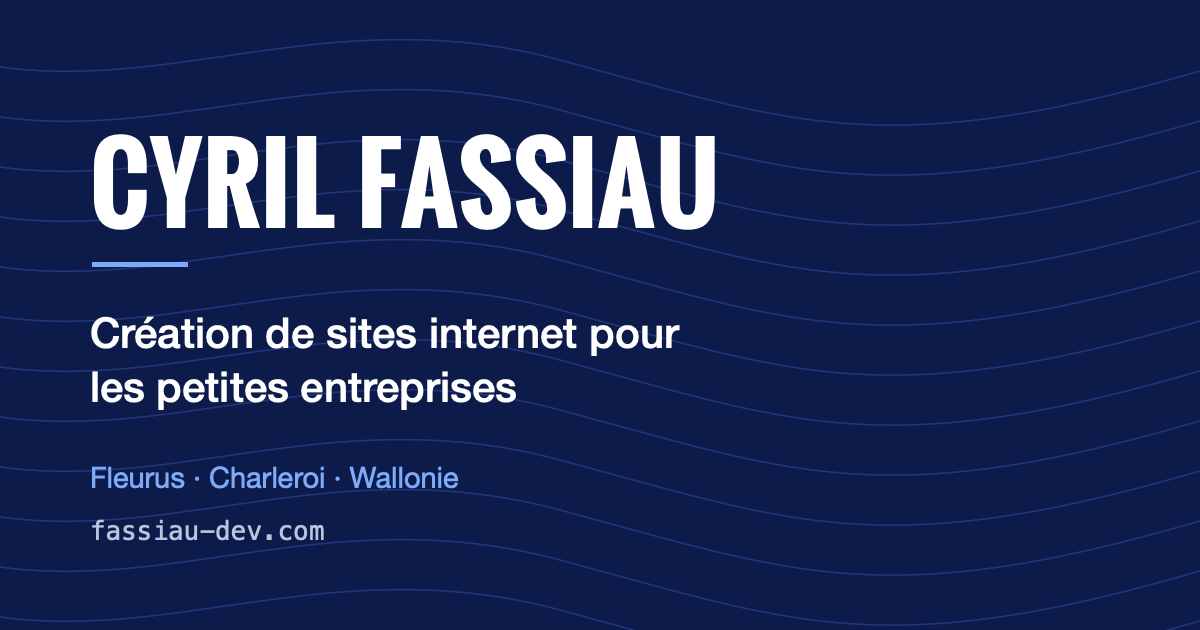
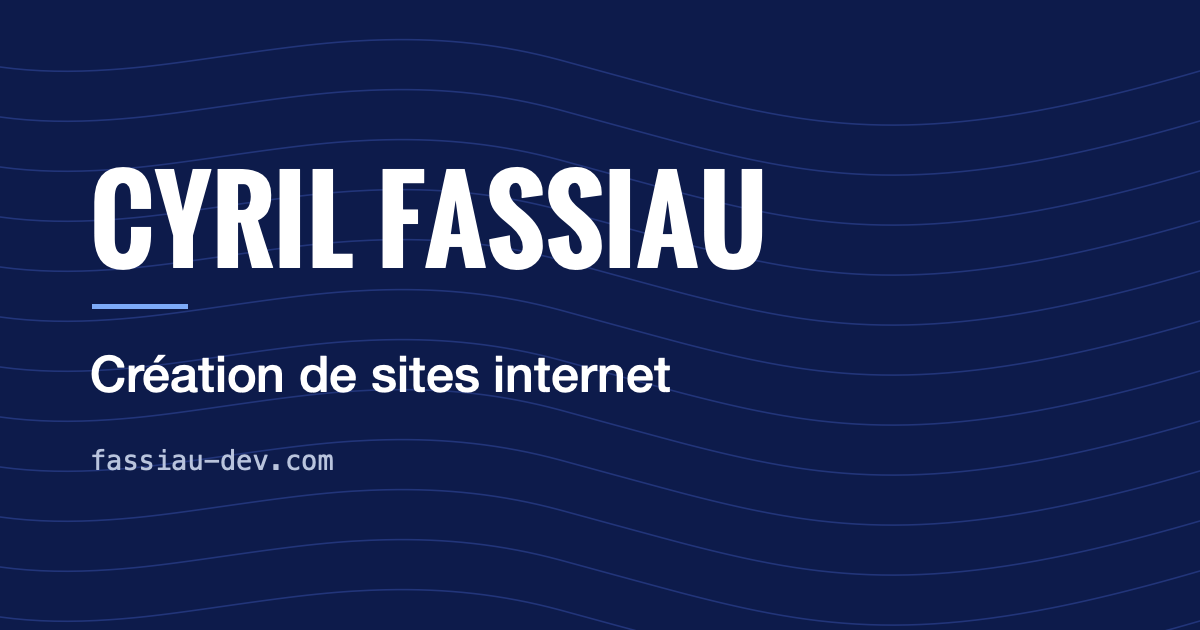
pushpush

diff --git a/projects.html b/projects.html
@@ -17,13 +17,13 @@
     <meta property="og:image" content="https://fassiau-dev.com/images/og-fassiau-dev.png">
     <meta property="og:image:width" content="1200">
     <meta property="og:image:height" content="630">
-    <meta property="og:image:alt" content="Cyril Fassiau, création de sites internet pour les petites entreprises. Fleurus, Charleroi, Wallonie.">
+    <meta property="og:image:alt" content="Cyril Fassiau, création de sites internet.">
 
     <meta name="twitter:card" content="summary_large_image">
     <meta name="twitter:title" content="Mes réalisations et sites de démonstration | Cyril Fassiau">
     <meta name="twitter:description" content="Exemples de sites internet créés par Cyril Fassiau, développeur web freelance près de Charleroi : sites vitrines pour indépendants, commerçants et professions libérales, et sites de démonstration.">
     <meta name="twitter:image" content="https://fassiau-dev.com/images/og-fassiau-dev.png">
-    <meta name="twitter:image:alt" content="Cyril Fassiau, création de sites internet pour les petites entreprises. Fleurus, Charleroi, Wallonie.">
+    <meta name="twitter:image:alt" content="Cyril Fassiau, création de sites internet.">
 
     <link rel="icon" href="/favicon-32.png" sizes="32x32" type="image/png">
     <link rel="icon" href="/favicon.svg" type="image/svg+xml">

diff --git a/index.html b/index.html
@@ -18,13 +18,13 @@
     <meta property="og:image" content="https://fassiau-dev.com/images/og-fassiau-dev.png">
     <meta property="og:image:width" content="1200">
     <meta property="og:image:height" content="630">
-    <meta property="og:image:alt" content="Cyril Fassiau, création de sites internet pour les petites entreprises. Fleurus, Charleroi, Wallonie.">
+    <meta property="og:image:alt" content="Cyril Fassiau, création de sites internet.">
 
     <meta name="twitter:card" content="summary_large_image">
     <meta name="twitter:title" content="Création de site internet à Charleroi et en Wallonie | Cyril Fassiau">
     <meta name="twitter:description" content="Développeur web freelance à Fleurus, près de Charleroi. Je crée le site internet des petites entreprises : design sur mesure, référencement Google et maintenance incluse. Devis gratuit.">
     <meta name="twitter:image" content="https://fassiau-dev.com/images/og-fassiau-dev.png">
-    <meta name="twitter:image:alt" content="Cyril Fassiau, création de sites internet pour les petites entreprises. Fleurus, Charleroi, Wallonie.">
+    <meta name="twitter:image:alt" content="Cyril Fassiau, création de sites internet.">
 
     <link rel="icon" href="/favicon-32.png" sizes="32x32" type="image/png">
     <link rel="icon" href="/favicon.svg" type="image/svg+xml">

diff --git a/mentions-legales.html b/mentions-legales.html
@@ -19,13 +19,13 @@
     <meta property="og:image" content="https://fassiau-dev.com/images/og-fassiau-dev.png">
     <meta property="og:image:width" content="1200">
     <meta property="og:image:height" content="630">
-    <meta property="og:image:alt" content="Cyril Fassiau, création de sites internet pour les petites entreprises. Fleurus, Charleroi, Wallonie.">
+    <meta property="og:image:alt" content="Cyril Fassiau, création de sites internet.">
 
     <meta name="twitter:card" content="summary_large_image">
     <meta name="twitter:title" content="Mentions légales | Cyril Fassiau">
     <meta name="twitter:description" content="Mentions légales de Cyril Fassiau, développeur web freelance en Belgique : numéro d'entreprise, coordonnées, hébergement du site.">
     <meta name="twitter:image" content="https://fassiau-dev.com/images/og-fassiau-dev.png">
-    <meta name="twitter:image:alt" content="Cyril Fassiau, création de sites internet pour les petites entreprises. Fleurus, Charleroi, Wallonie.">
+    <meta name="twitter:image:alt" content="Cyril Fassiau, création de sites internet.">
 
     <link rel="icon" href="/favicon-32.png" sizes="32x32" type="image/png">
     <link rel="icon" href="/favicon.svg" type="image/svg+xml">
